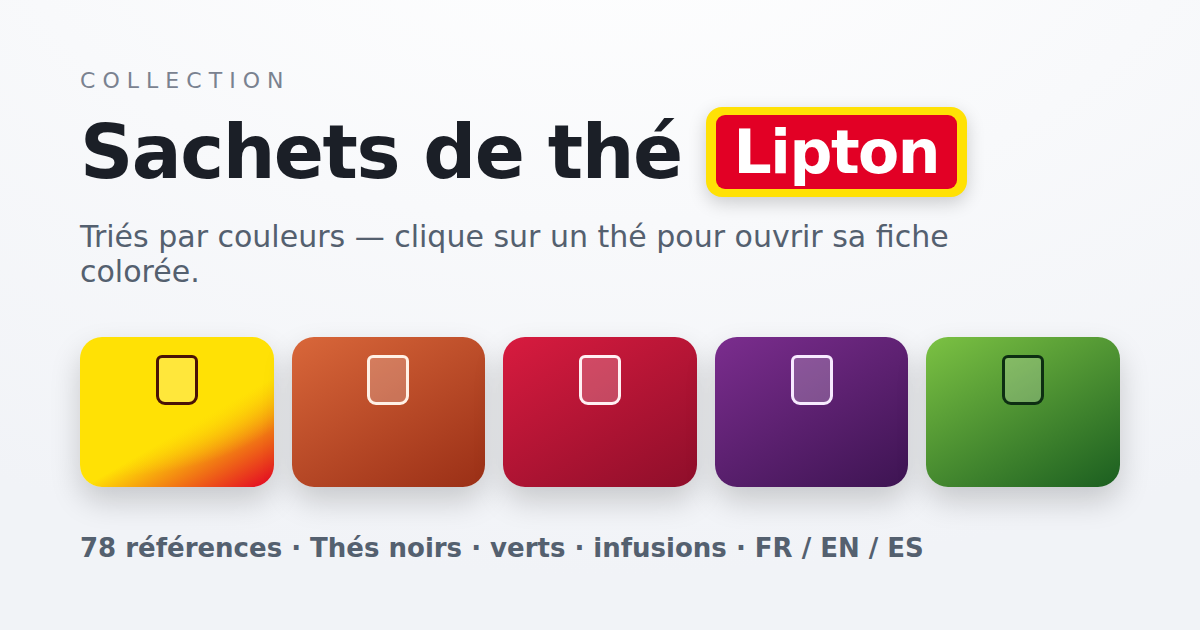
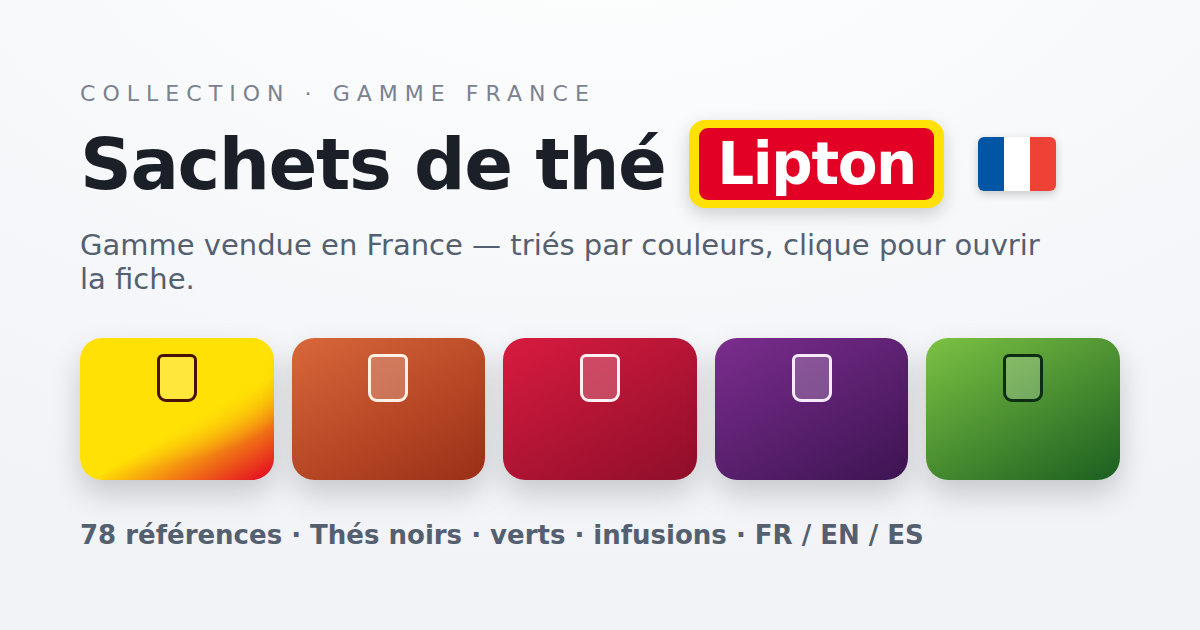
Indiquer la gamme France 🇫🇷 (#25)
- Badge « 🇫🇷 Gamme vendue en France » dans l'en-tête (traduit FR/EN/ES).
- Description (méta) et vignette d'aperçu (Open Graph) mentionnent la France
  avec le drapeau.

Claude-Session: https://claude.ai/code/session_01YXCcK4TPr3PpfudihUwMZz

diff --git a/src/i18n.ts b/src/i18n.ts
@@ -41,6 +41,7 @@ export interface UiStrings {
   sortLabel: string;
   sortColour: string;
   sortIntensity: string;
+  country: string;
   footer: (count: number) => string;
   openAria: (name: string) => string;
   langAria: string;
@@ -80,6 +81,7 @@ export const UI: Record<Lang, UiStrings> = {
     sortLabel: "Trier par",
     sortColour: "Couleur",
     sortIntensity: "Intensité",
+    country: "Gamme vendue en France",
     footer: (n) => `Fiches couleurs · ${n} sachets · React + Node`,
     openAria: (name) => `Ouvrir la fiche ${name}`,
     langAria: "Choisir la langue",
@@ -117,6 +119,7 @@ export const UI: Record<Lang, UiStrings> = {
     sortLabel: "Sort by",
     sortColour: "Colour",
     sortIntensity: "Intensity",
+    country: "Range sold in France",
     footer: (n) => `Colour cards · ${n} tea bags · React + Node`,
     openAria: (name) => `Open the ${name} card`,
     langAria: "Choose language",
@@ -154,6 +157,7 @@ export const UI: Record<Lang, UiStrings> = {
     sortLabel: "Ordenar por",
     sortColour: "Color",
     sortIntensity: "Intensidad",
+    country: "Gama vendida en Francia",
     footer: (n) => `Fichas de color · ${n} bolsitas · React + Node`,
     openAria: (name) => `Abrir la ficha ${name}`,
     langAria: "Elegir idioma",

diff --git a/src/styles.css b/src/styles.css
@@ -171,6 +171,20 @@ body {
   line-height: 1.5;
 }
 
+.hero__country {
+  display: inline-flex;
+  align-items: center;
+  gap: 0.4rem;
+  margin: 0.9rem auto 0;
+  padding: 0.3rem 0.85rem;
+  border: 1px solid var(--line);
+  background: var(--panel);
+  border-radius: 999px;
+  font-size: 0.82rem;
+  font-weight: 700;
+  color: var(--text);
+}
+
 /* Filtres */
 .filters {
   display: flex;

diff --git a/src/App.tsx b/src/App.tsx
@@ -589,6 +589,10 @@ export function App() {
         </h1>
         <p className="hero__subtitle">{t.subtitle}</p>
 
+        <p className="hero__country">
+          <span aria-hidden="true">🇫🇷</span> {t.country}
+        </p>
+
         <nav className="filters">
           <button
             className={`chip ${active === "all" ? "chip--on" : ""}`}
